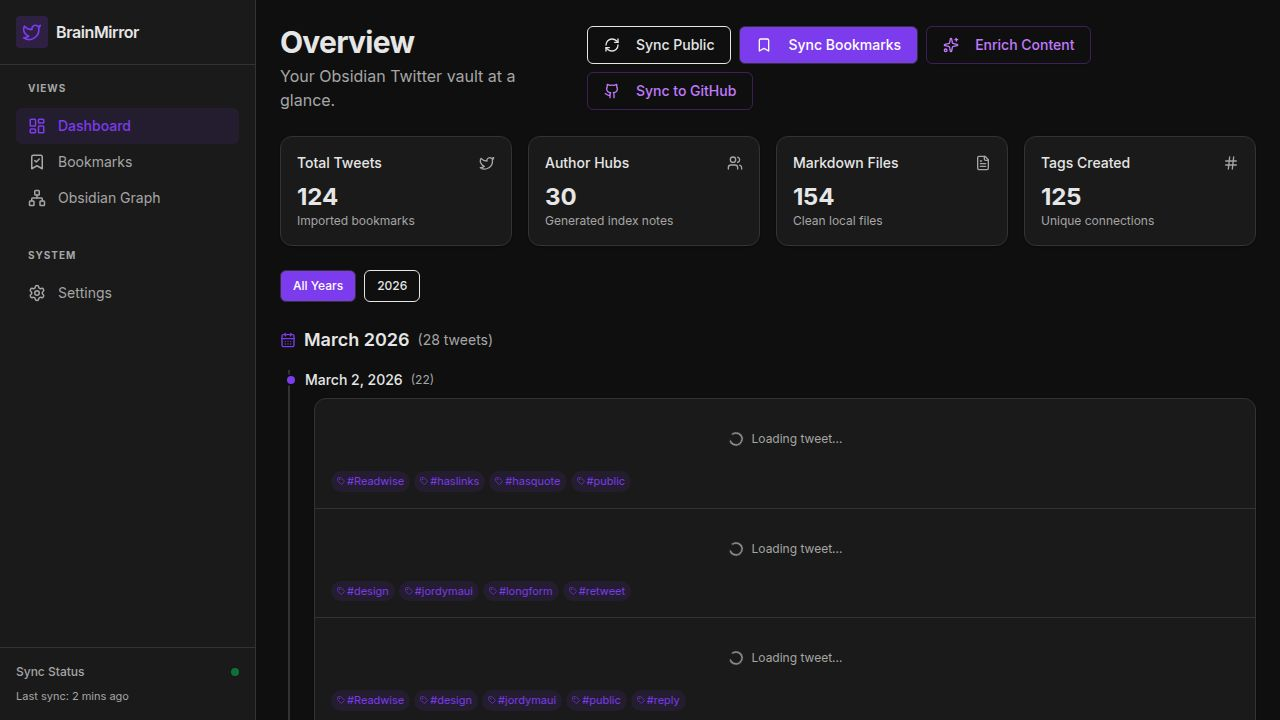
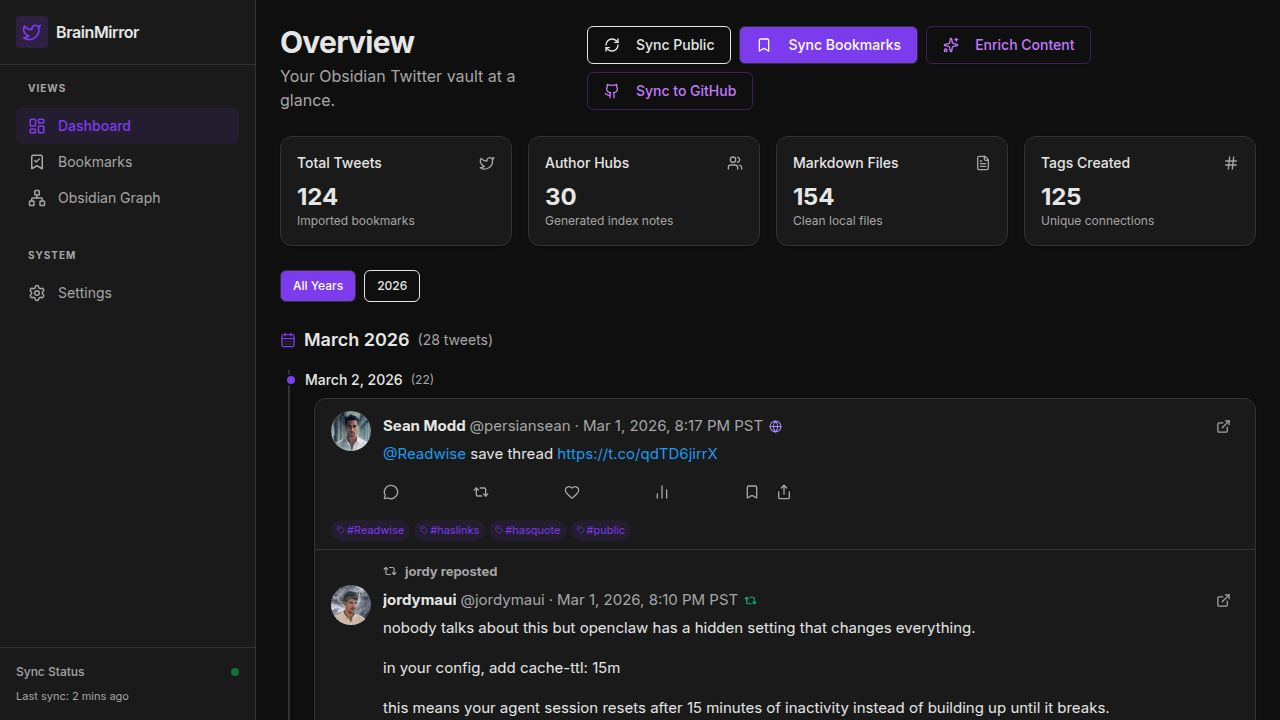
Add inline tweet replies that can be expanded and collapsed
Replaces the `TweetEmbed` component with a new `TimelineTweetCard` component in the Dashboard, enabling inline expansion and collapsing of tweet replies, and removes the `TweetThreadModal` component.

Replit-Commit-Author: Agent
Replit-Commit-Session-Id: 893960b8-4e2f-4c8a-adc0-736265c9ebae
Replit-Commit-Checkpoint-Type: full_checkpoint
Replit-Commit-Event-Id: 0a0c4512-c068-4154-ba07-a02deb42e93f
Replit-Commit-Screenshot-Url: https://storage.googleapis.com/screenshot-production-us-central1/31c7cee5-2e00-4bf3-b877-27cbd05c0656/893960b8-4e2f-4c8a-adc0-736265c9ebae/1uhjv5o
Replit-Helium-Checkpoint-Created: true

diff --git a/client/src/pages/Dashboard.tsx b/client/src/pages/Dashboard.tsx
@@ -3,13 +3,11 @@ import { api } from "@/lib/api";
 import { queryClient } from "@/lib/queryClient";
 import { Card, CardContent } from "@/components/ui/card";
 import { Button } from "@/components/ui/button";
-import { Twitter, RefreshCw, FileText, Hash, Users, ExternalLink, Loader2, Bookmark, Repeat2, Globe, Pencil, Github, Sparkles, CalendarDays, Tag } from "lucide-react";
+import { Twitter, RefreshCw, FileText, Hash, Users, ExternalLink, Loader2, Bookmark, Repeat2, Globe, Pencil, Github, Sparkles, CalendarDays, Tag, MessageCircle, Heart, BarChart2, Share, ChevronDown, ChevronUp } from "lucide-react";
 import { Link } from "wouter";
 import { Skeleton } from "@/components/ui/skeleton";
 import { useToast } from "@/hooks/use-toast";
-import { getAutoTags } from "@/lib/utils";
-import TweetThreadModal from "@/components/TweetThreadModal";
-import TweetEmbed from "@/components/TweetEmbed";
+import { getAutoTags, getDisplayInfo, formatContent, formatTimeAgo, isVideoUrl, proxyImageUrl, getLinkCards } from "@/lib/utils";
 import { useMemo, useState } from "react";
 
 const MONTH_NAMES = [
@@ -68,9 +66,236 @@ function groupTweetsByDate(tweets: any[]): DateGroup[] {
   return groups;
 }
 
+function TimelineTweetCard({ tweet, allTweets }: { tweet: any; allTweets: any[] }) {
+  const [repliesExpanded, setRepliesExpanded] = useState(false);
+  const { displayName, displayHandle, displayContent, isRetweet, retweetedBy } = getDisplayInfo(tweet);
+  const mediaUrls = (tweet.mediaUrls || []).filter((u: string) => u && u !== "");
+  const linkCards = getLinkCards(tweet);
+
+  const replies = useMemo(() => {
+    const convId = tweet.conversationId;
+    if (!convId) return [];
+    const inThread = allTweets.filter(
+      (t: any) => t.id !== tweet.id && (
+        t.conversationId === convId ||
+        t.inReplyToTweetId === tweet.tweetId ||
+        tweet.inReplyToTweetId === t.tweetId
+      )
+    );
+    const unique = Array.from(new Map(inThread.map((t: any) => [t.id, t])).values());
+    unique.sort((a: any, b: any) => new Date(a.createdAt).getTime() - new Date(b.createdAt).getTime());
+    return unique;
+  }, [tweet, allTweets]);
+
+  const replyCount = replies.length;
+
+  return (
+    <div>
+      <div className="px-4 py-3">
+        {isRetweet && (
+          <div className="flex items-center gap-2 text-[13px] text-muted-foreground mb-1 ml-[52px]">
+            <Repeat2 size={14} />
+            <span className="font-bold">{retweetedBy ? `${retweetedBy} reposted` : "You reposted"}</span>
+          </div>
+        )}
+        <div className="flex gap-3">
+          <div className="shrink-0">
+            {tweet.authorProfileImageUrl ? (
+              <img
+                src={proxyImageUrl(tweet.authorProfileImageUrl)}
+                alt={displayName}
+                className="w-10 h-10 rounded-full object-cover"
+                onError={(e) => { (e.target as HTMLImageElement).style.display = 'none'; (e.target as HTMLImageElement).nextElementSibling?.classList.remove('hidden'); }}
+              />
+            ) : null}
+            <div className={`w-10 h-10 rounded-full bg-muted flex items-center justify-center text-foreground font-bold text-sm ${tweet.authorProfileImageUrl ? 'hidden' : ''}`}>
+              {displayName?.[0]?.toUpperCase() || "?"}
+            </div>
+          </div>
+          <div className="flex-1 min-w-0">
+            <div className="flex items-center justify-between">
+              <div className="flex items-center gap-1 min-w-0">
+                <span className="font-bold text-[15px] text-foreground truncate">{displayName}</span>
+                <span className="text-muted-foreground text-[15px] truncate">@{displayHandle}</span>
+                <span className="text-muted-foreground text-[15px] shrink-0">·</span>
+                <span className="text-muted-foreground text-[15px] shrink-0">{formatTimeAgo(tweet.createdAt)}</span>
+                {tweet.source === "bookmark" && <Bookmark size={13} className="text-[#1d9bf0] fill-[#1d9bf0] shrink-0 ml-0.5" />}
+                {tweet.source === "retweet" && <Repeat2 size={13} className="text-[#00ba7c] shrink-0 ml-0.5" />}
+                {tweet.source === "public" && <Globe size={13} className="text-[#A78BFA] shrink-0 ml-0.5" />}
+                {tweet.source === "manual" && <Pencil size={13} className="text-muted-foreground shrink-0 ml-0.5" />}
+              </div>
+              <a
+                href={tweet.tweetUrl}
+                target="_blank"
+                rel="noreferrer"
+                onClick={(e) => e.stopPropagation()}
+                className="p-2 rounded-full text-muted-foreground hover:text-[#1d9bf0] hover:bg-[#1d9bf0]/10 transition-colors"
+              >
+                <ExternalLink size={15} />
+              </a>
+            </div>
+
+            <div className="text-[15px] text-foreground leading-[20px] mt-0.5 whitespace-pre-wrap break-words">
+              {formatContent(displayContent)}
+            </div>
+
+            {mediaUrls.length > 0 && (
+              <div className={`mt-3 rounded-2xl overflow-hidden border border-border ${mediaUrls.length > 1 ? "grid grid-cols-2 gap-0.5" : ""}`}>
+                {mediaUrls.map((url: string, i: number) =>
+                  isVideoUrl(url) ? (
+                    <div key={i} className={`relative bg-black ${mediaUrls.length === 1 ? "max-h-[300px]" : "h-[150px]"}`}>
+                      <video
+                        src={proxyImageUrl(url)}
+                        controls
+                        playsInline
+                        preload="metadata"
+                        className={`w-full object-contain ${mediaUrls.length === 1 ? "max-h-[300px]" : "h-[150px]"}`}
+                        onClick={(e) => e.stopPropagation()}
+                      />
+                    </div>
+                  ) : (
+                    <img
+                      key={i}
+                      src={proxyImageUrl(url)}
+                      alt=""
+                      className={`w-full object-cover ${mediaUrls.length === 1 ? "max-h-[300px]" : "h-[150px]"}`}
+                      loading="lazy"
+                    />
+                  )
+                )}
+              </div>
+            )}
+
+            {linkCards.length > 0 && mediaUrls.length === 0 && (
+              <a href={linkCards[0].url} target="_blank" rel="noreferrer" onClick={(e) => e.stopPropagation()} className="mt-3 border border-border rounded-2xl overflow-hidden hover:bg-foreground/[0.03] transition-colors block">
+                {linkCards[0].image && <img src={proxyImageUrl(linkCards[0].image)} alt="" className="w-full h-[200px] object-cover border-b border-border" loading="lazy" />}
+                <div className="px-3 py-2">
+                  {linkCards[0].displayUrl && <div className="text-[12px] text-muted-foreground truncate">{linkCards[0].displayUrl}</div>}
+                  {linkCards[0].title && <div className="text-[13px] text-foreground leading-[16px] truncate">{linkCards[0].title}</div>}
+                  {linkCards[0].description && <div className="text-[12px] text-muted-foreground leading-[14px] line-clamp-2 mt-0.5">{linkCards[0].description}</div>}
+                </div>
+              </a>
+            )}
+
+            {tweet.quotedTweetContent && tweet.quotedTweetAuthorHandle && (
+              <div className="mt-3 border border-border rounded-2xl overflow-hidden hover:bg-foreground/[0.03] transition-colors">
+                <div className="p-3">
+                  <div className="flex items-center gap-1 mb-1">
+                    <div className="w-5 h-5 rounded-full bg-muted flex items-center justify-center text-foreground font-bold text-[10px]">
+                      {(tweet.quotedTweetAuthorName || tweet.quotedTweetAuthorHandle)?.[0]?.toUpperCase() || "?"}
+                    </div>
+                    <span className="font-bold text-[13px] text-foreground">{tweet.quotedTweetAuthorName || tweet.quotedTweetAuthorHandle}</span>
+                    <span className="text-muted-foreground text-[13px]">@{tweet.quotedTweetAuthorHandle}</span>
+                  </div>
+                  <div className="text-[14px] text-foreground leading-[18px] whitespace-pre-wrap break-words line-clamp-4">
+                    {formatContent(tweet.quotedTweetContent || "")}
+                  </div>
+                </div>
+              </div>
+            )}
+
+            <div className="flex items-center justify-between mt-3 max-w-[425px] -ml-2">
+              <button
+                data-testid={`button-replies-${tweet.id}`}
+                className={`flex items-center gap-1 p-2 rounded-full transition-colors ${replyCount > 0 ? 'text-[#1d9bf0] hover:bg-[#1d9bf0]/10 cursor-pointer' : 'text-muted-foreground'}`}
+                onClick={(e) => { e.stopPropagation(); if (replyCount > 0) setRepliesExpanded(!repliesExpanded); }}
+              >
+                <MessageCircle size={16} />
+                {replyCount > 0 && <span className="text-[13px]">{replyCount}</span>}
+              </button>
+              <span className="flex items-center gap-1 p-2 rounded-full text-muted-foreground">
+                <Repeat2 size={16} />
+              </span>
+              <span className="flex items-center gap-1 p-2 rounded-full text-muted-foreground">
+                <Heart size={16} />
+              </span>
+              <span className="flex items-center gap-1 p-2 rounded-full text-muted-foreground">
+                <BarChart2 size={16} />
+              </span>
+              <div className="flex items-center">
+                <span className="p-2 rounded-full text-muted-foreground">
+                  <Bookmark size={16} className={tweet.source === "bookmark" ? "fill-[#1d9bf0] text-[#1d9bf0]" : ""} />
+                </span>
+                <span className="p-2 rounded-full text-muted-foreground">
+                  <Share size={16} />
+                </span>
+              </div>
+            </div>
+
+            {replyCount > 0 && (
+              <button
+                data-testid={`button-toggle-replies-${tweet.id}`}
+                className="flex items-center gap-1.5 mt-1 text-[13px] text-[#1d9bf0] hover:underline cursor-pointer"
+                onClick={(e) => { e.stopPropagation(); setRepliesExpanded(!repliesExpanded); }}
+              >
+                {repliesExpanded ? <ChevronUp size={14} /> : <ChevronDown size={14} />}
+                {repliesExpanded ? "Hide" : "Read"} {replyCount} {replyCount === 1 ? "reply" : "replies"}
+              </button>
+            )}
+          </div>
+        </div>
+      </div>
+
+      {repliesExpanded && replies.length > 0 && (
+        <div className="border-t border-border bg-foreground/[0.02]">
+          {replies.map((reply: any, idx: number) => {
+            const replyInfo = getDisplayInfo(reply);
+            const replyMedia = (reply.mediaUrls || []).filter((u: string) => u && u !== "");
+            return (
+              <div key={reply.id} className={`px-4 py-3 ${idx < replies.length - 1 ? 'border-b border-border/50' : ''}`}>
+                <div className="flex gap-3">
+                  <div className="shrink-0 flex flex-col items-center">
+                    <div className="w-2 h-2 rounded-full bg-border mb-1 mt-2" />
+                    {idx < replies.length - 1 && <div className="w-0.5 flex-1 bg-border/50" />}
+                  </div>
+                  <div className="flex-1 min-w-0">
+                    <div className="flex items-center gap-1 min-w-0">
+                      {reply.authorProfileImageUrl ? (
+                        <img
+                          src={proxyImageUrl(reply.authorProfileImageUrl)}
+                          alt={replyInfo.displayName}
+                          className="w-6 h-6 rounded-full object-cover mr-1"
+                          onError={(e) => { (e.target as HTMLImageElement).style.display = 'none'; }}
+                        />
+                      ) : (
+                        <div className="w-6 h-6 rounded-full bg-muted flex items-center justify-center text-foreground font-bold text-[9px] mr-1">
+                          {replyInfo.displayName?.[0]?.toUpperCase() || "?"}
+                        </div>
+                      )}
+                      <span className="font-bold text-[13px] text-foreground truncate">{replyInfo.displayName}</span>
+                      <span className="text-muted-foreground text-[13px] truncate">@{replyInfo.displayHandle}</span>
+                      <span className="text-muted-foreground text-[13px]">·</span>
+                      <span className="text-muted-foreground text-[13px] shrink-0">{formatTimeAgo(reply.createdAt)}</span>
+                    </div>
+                    <div className="text-[14px] text-foreground/90 leading-[19px] mt-1 whitespace-pre-wrap break-words">
+                      {formatContent(replyInfo.displayContent)}
+                    </div>
+                    {replyMedia.length > 0 && (
+                      <div className={`mt-2 rounded-xl overflow-hidden border border-border ${replyMedia.length > 1 ? "grid grid-cols-2 gap-0.5" : ""}`}>
+                        {replyMedia.map((url: string, i: number) =>
+                          isVideoUrl(url) ? (
+                            <div key={i} className="relative bg-black h-[120px]">
+                              <video src={proxyImageUrl(url)} controls playsInline preload="metadata" className="w-full object-contain h-[120px]" onClick={(e) => e.stopPropagation()} />
+                            </div>
+                          ) : (
+                            <img key={i} src={proxyImageUrl(url)} alt="" className="w-full object-cover h-[120px]" loading="lazy" />
+                          )
+                        )}
+                      </div>
+                    )}
+                  </div>
+                </div>
+              </div>
+            );
+          })}
+        </div>
+      )}
+    </div>
+  );
+}
+
 export default function Dashboard() {
   const { toast } = useToast();
-  const [threadTweet, setThreadTweet] = useState<any>(null);
   const [selectedYear, setSelectedYear] = useState<number | null>(null);
   const [selectedMonth, setSelectedMonth] = useState<number | null>(null);
 
@@ -436,8 +661,8 @@ export default function Dashboard() {
                           {dayTweets.map((tweet: any) => {
                             const autoTags = getAutoTags(tweet);
                             return (
-                              <article key={tweet.id} data-testid={`timeline-tweet-${tweet.id}`} className="py-2 cursor-pointer" onClick={() => setThreadTweet(tweet)}>
-                                <TweetEmbed tweetUrl={tweet.tweetUrl} tweetId={tweet.id} />
+                              <article key={tweet.id} data-testid={`timeline-tweet-${tweet.id}`}>
+                                <TimelineTweetCard tweet={tweet} allTweets={tweets || []} />
                                 {autoTags.length > 0 && (
                                   <div className="flex flex-wrap gap-1 px-4 pb-2">
                                     {autoTags.map((tag, i) => (
@@ -462,12 +687,6 @@ export default function Dashboard() {
         </div>
       )}
 
-      <TweetThreadModal
-        tweet={threadTweet}
-        allTweets={tweets || []}
-        open={!!threadTweet}
-        onOpenChange={(open: boolean) => { if (!open) setThreadTweet(null); }}
-      />
     </div>
   );
 }
